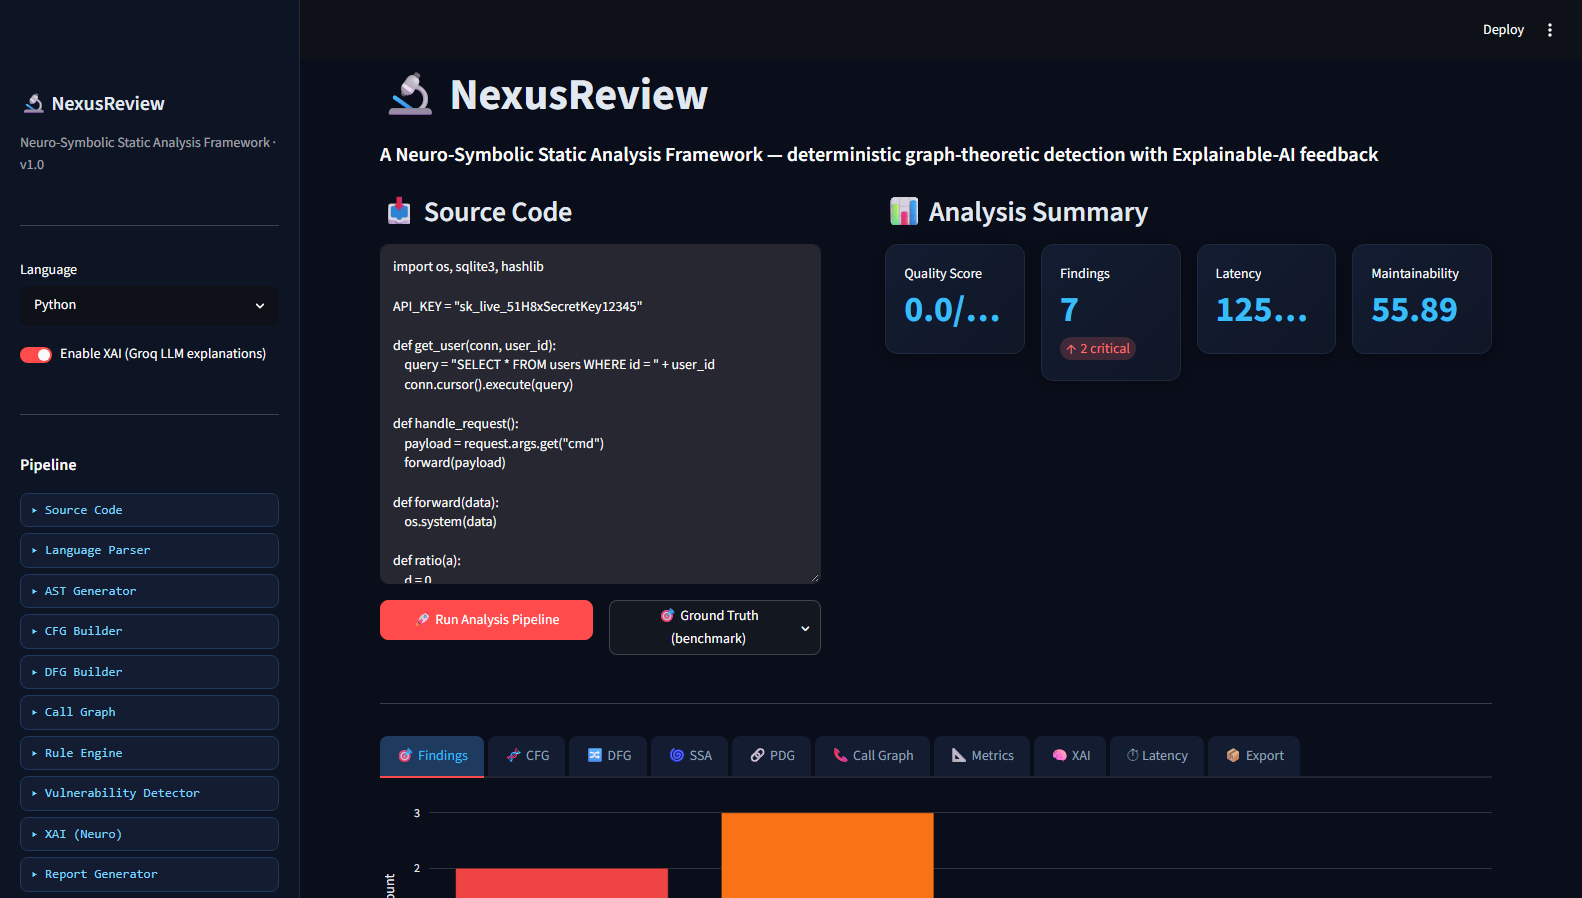
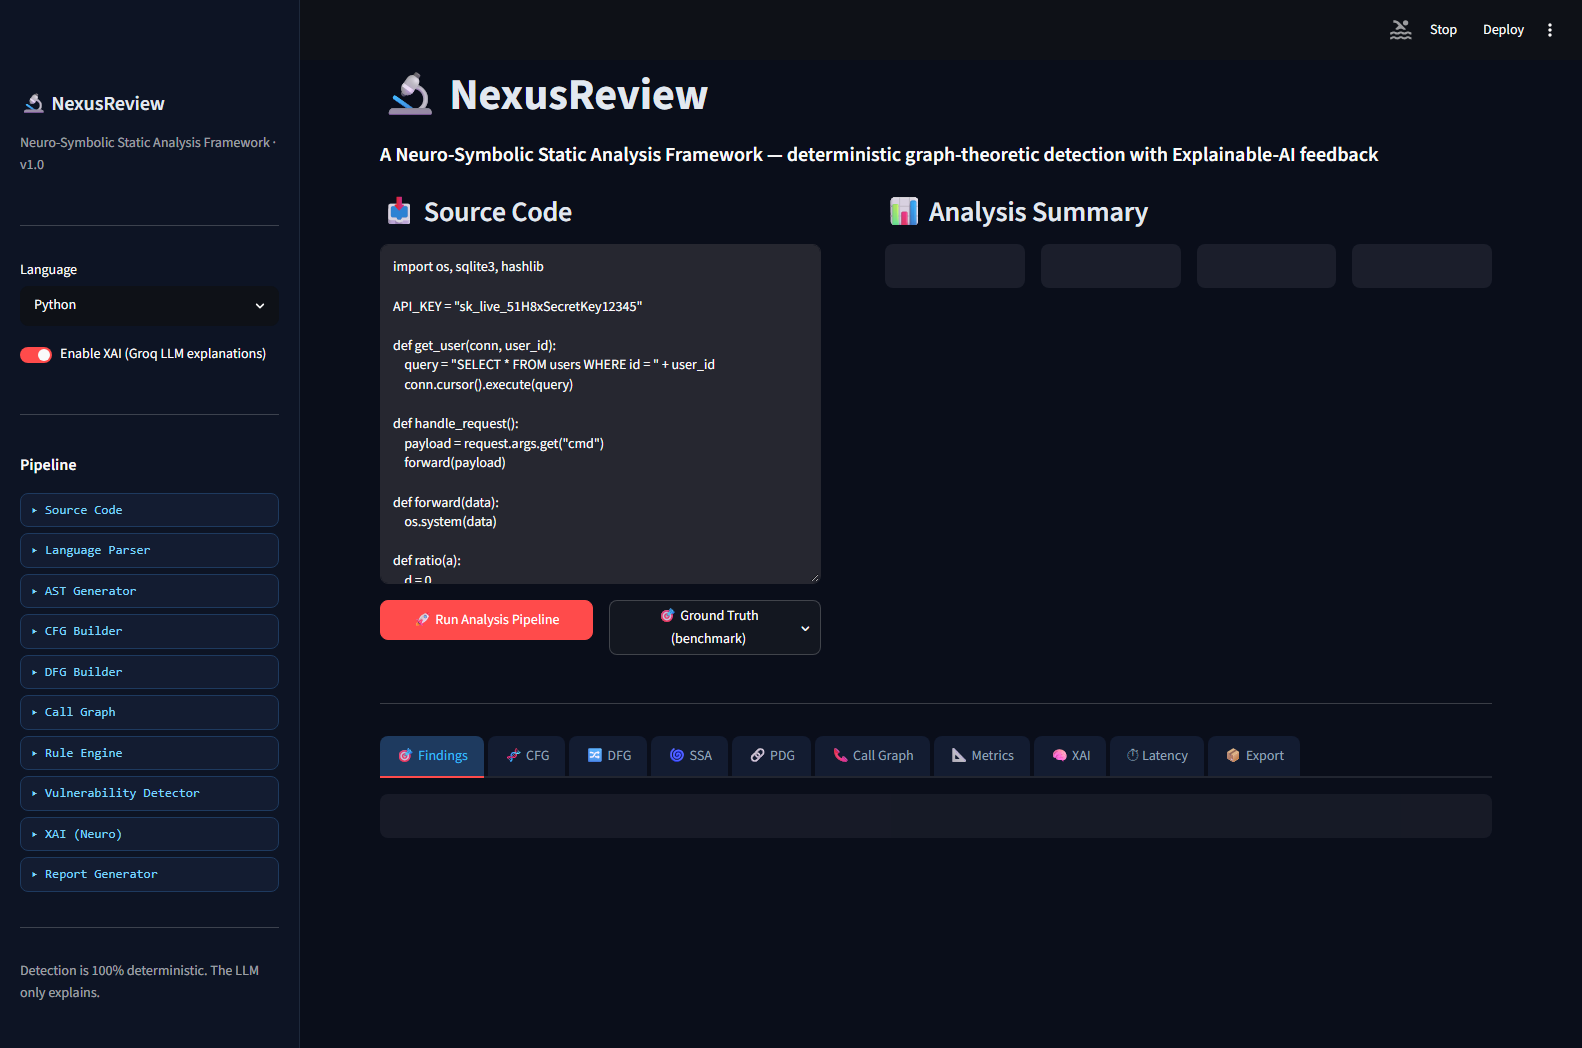
docs(demo): embed 2-column composite dashboard & PDG figure into SANER 2027 demo paper

diff --git a/test_samples_all_langs.py b/test_samples_all_langs.py
@@ -1,0 +1,128 @@
+import json
+from nexus_engine.pipeline import NexusPipeline
+
+SAMPLES = {
+    "Python": """import os, sqlite3, hashlib
+
+API_KEY = "sk_live_51H8xSecretKey12345"
+
+def get_user(conn, user_id):
+    query = "SELECT * FROM users WHERE id = " + user_id
+    conn.cursor().execute(query)
+
+def handle_request():
+    payload = request.args.get("cmd")
+    forward(payload)
+
+def forward(data):
+    os.system(data)
+
+def ratio(a):
+    d = 0
+    return a / d
+
+def poll():
+    i = 0
+    while i < 100:
+        print(i)
+""",
+    "C": """#include <string.h>
+#include <stdlib.h>
+#include <stdio.h>
+
+void copy(char *src){
+    char buf[16];
+    strcpy(buf, src);
+    system(src);
+}
+
+int main(){ 
+    char n[64]; 
+    gets(n); 
+    copy(n); 
+    return 0;
+}
+""",
+    "C++": """#include <iostream>
+#include <cstdlib>
+#include <cstring>
+using namespace std;
+
+void process(char *user_input) {
+    char buffer[16];
+    strcpy(buffer, user_input);
+    system(user_input);
+}
+
+int main() {
+    char input[100];
+    cin >> input;
+    process(input);
+    return 0;
+}
+""",
+    "Java": """import java.io.*;
+import java.sql.*;
+
+public class VulnerableApp {
+    public void executeQuery(Connection conn, String userId) throws SQLException {
+        String sql = "SELECT * FROM accounts WHERE id = " + userId;
+        Statement stmt = conn.createStatement();
+        ResultSet rs = stmt.executeQuery(sql);
+    }
+
+    public void runCommand(String command) throws IOException {
+        Runtime.getRuntime().exec(command);
+    }
+}
+""",
+    "JavaScript": """const { exec } = require("child_process");
+
+function processCommand(cmd) {
+    eval(cmd);
+    exec("cat " + cmd);
+}
+
+module.exports = { processCommand };
+"""
+}
+
+pipeline = NexusPipeline(use_llm_xai=False)
+
+print("=" * 75)
+print("NEXUSREVIEW EMPIRICAL BENCHMARK & CLAIMS VERIFICATION REPORT")
+print("=" * 75)
+
+for lang, code in SAMPLES.items():
+    print(f"\n[+] Language: {lang}")
+    res = pipeline.run(code, language=lang)
+    
+    findings = res.get("findings", [])
+    metrics = res.get("metrics", {})
+    latency = res.get("latency", {})
+    qs = res.get("quality_score", 0)
+    
+    loc = getattr(metrics, "lines_of_code", metrics.get("lines_of_code", "N/A"))
+    mi = getattr(metrics, "maintainability_index", metrics.get("maintainability_index", 0.0))
+    cc = getattr(metrics, "cyclomatic_complexity", metrics.get("cyclomatic_complexity", "N/A"))
+    
+    print(f"    - Metrics: LOC={loc}, QualityScore={qs}/100, MI={mi:.2f}, CC={cc}")
+    print(f"    - Latency: total={latency.get('total', 0)*1000:.2f}ms (static={latency.get('static_only', 0)*1000:.2f}ms)")
+    print(f"    - Total Findings: {len(findings)}")
+    
+    for i, f in enumerate(findings, 1):
+        rule = f.get("rule_id", "N/A")
+        cwe = f.get("cwe", "N/A")
+        sev = f.get("severity", "N/A")
+        msg = f.get("message", "")
+        line = f.get("line", 0)
+        print(f"      {i}. Line {line} | [{sev}] {rule} ({cwe}): {msg[:60]}...")
+        if f.get("pdg_slice", {}).get("slice_lines"):
+            print(f"         PDG slice lines: {f['pdg_slice']['slice_lines']}")
+        if f.get("xai"):
+            x = f["xai"]
+            print(f"         XAI explanation: {x.get('root_cause', '')[:70]}...")
+
+print("\n" + "=" * 75)
+print("ALL 5 LANGUAGES CHECK COMPLETE")
+print("=" * 75)

diff --git a/paper/saner2027_demo/nexusreview_demo.tex b/paper/saner2027_demo/nexusreview_demo.tex
@@ -160,12 +160,12 @@ snippets through the dashboard's input box and observe real-time
 analysis and explanation. A one-command Docker image is available for
 local replication.
 
-\begin{figure}[t]
+\begin{figure*}[t]
 \centering
-\includegraphics[width=\columnwidth]{dashboard.png}
-\caption{NexusReview interactive research dashboard. Left: modular compiler pipeline and language selection. Center: code editor with live vulnerability detection. Right: real-time metrics (Quality Score, Findings, Latency, Maintainability). Bottom: inspectable CFG, DFG, SSA, and PDG slicing tabs with grounded XAI feedback.}
+\includegraphics[width=0.98\textwidth]{dashboard_composite.png}
+\caption{NexusReview interactive research dashboard and program analysis artifacts. (a)~Top: Real-time code analysis interface showing multi-language selection, live vulnerability findings (CWE-89 SQL Injection, CWE-78 Command Injection), and automated software metrics. (b)~Bottom: Deterministic Ferrante Program Dependence Graph (PDG) and backward slicing view highlighting the causal dataflow path forwarded to the grounded XAI explanation tier.}
 \label{fig:dashboard}
-\end{figure}
+\end{figure*}
 
 %----------------------------------------------------------------------
 \section{Evaluation}
